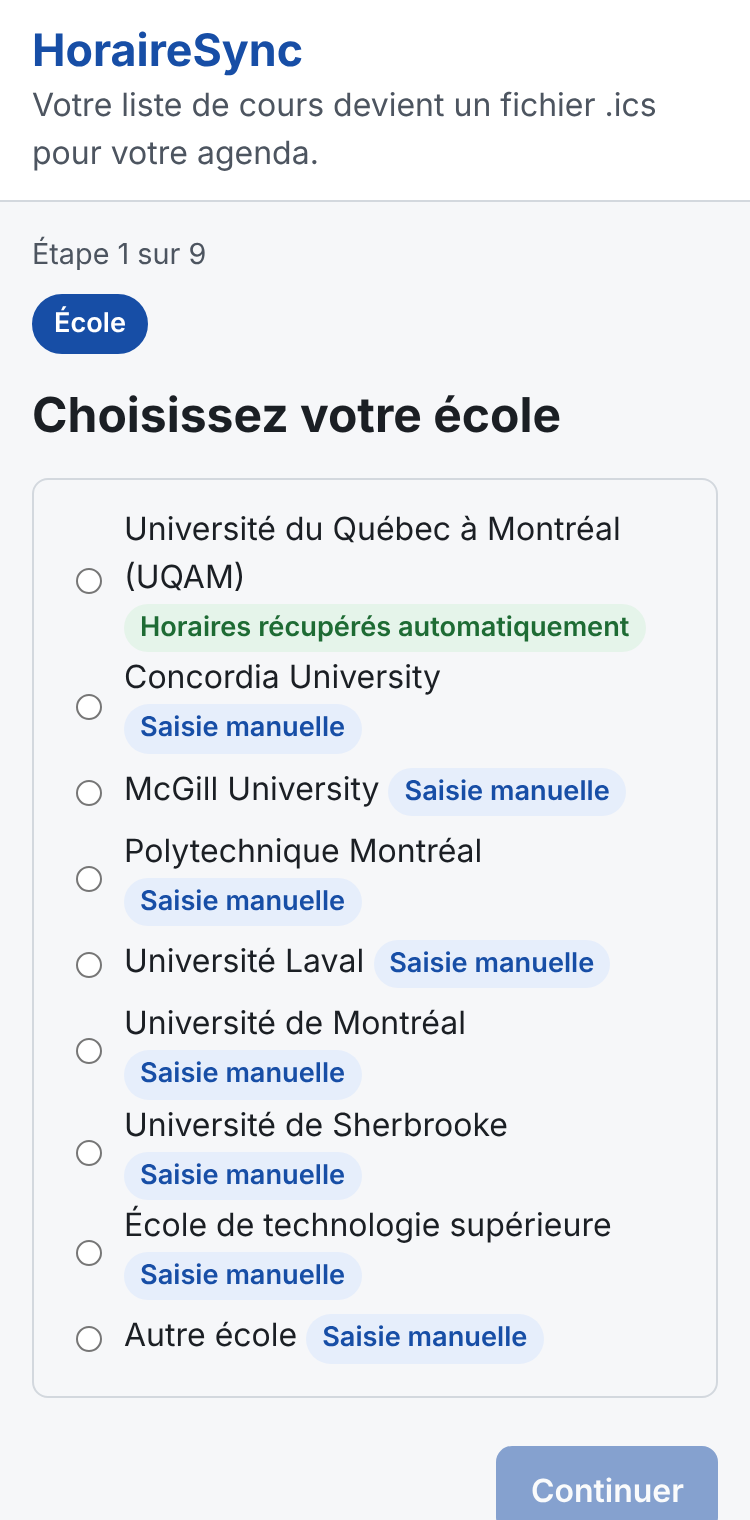
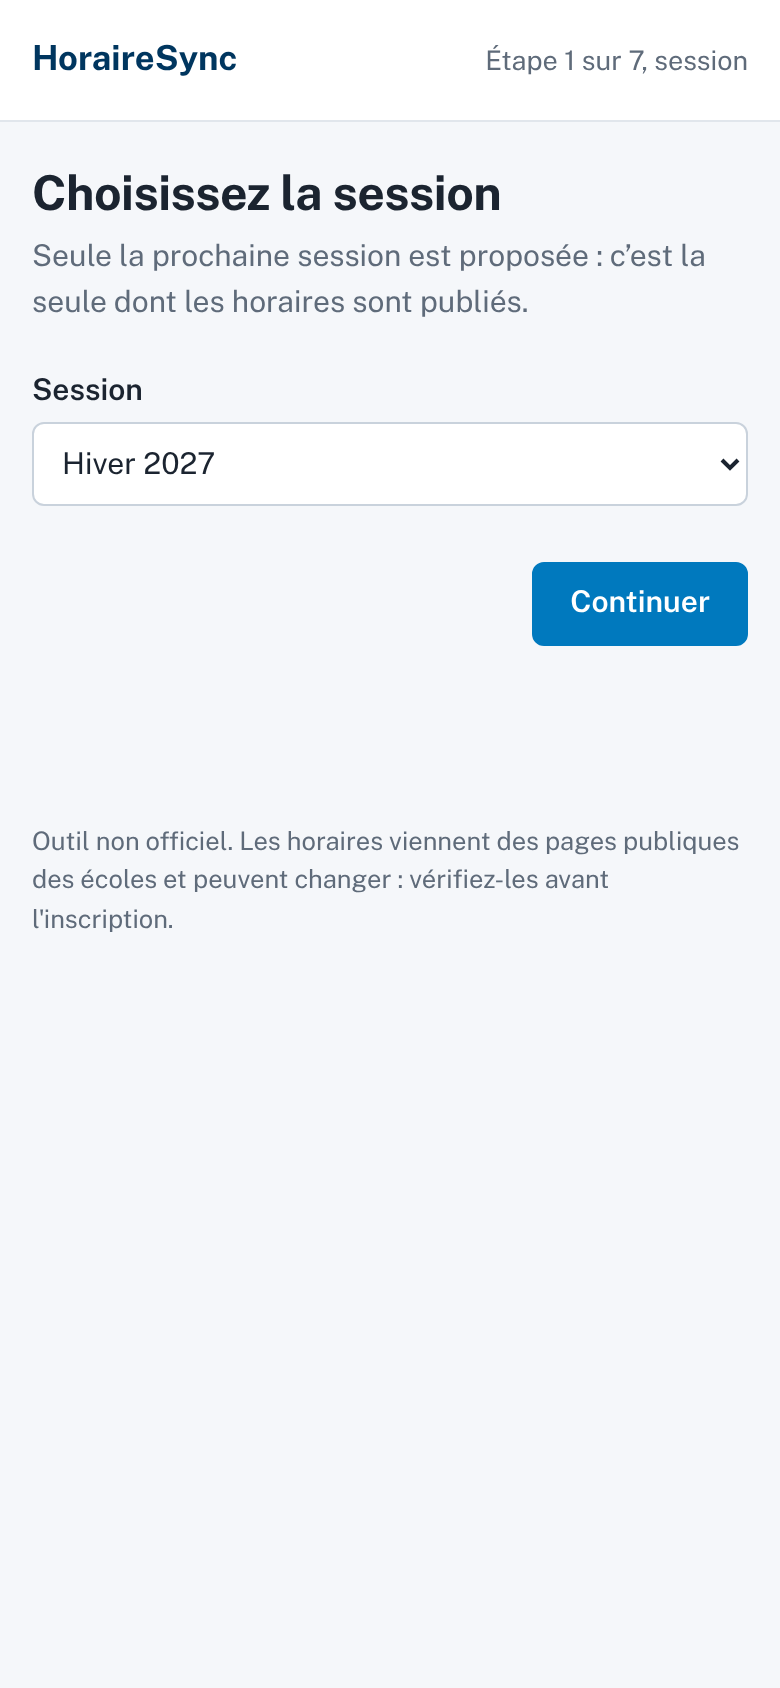
docs: update screenshots and demo for the new interface

diff --git a/frontend/README.md b/frontend/README.md
@@ -25,6 +25,13 @@ En production, `VITE_API_URL` donne l'adresse du backend (ex. `https://api.exemp
 | `src/components` | Composants réutilisables (champ adapté au type de valeur, carte de groupe, vue semaine…) |
 | `src/steps` | Un composant par étape |
 
+## Interface
+
+- Une seule couleur d'accent, le bleu de l'UQAM (`#0079be`), avec un bleu marine et des gris neutres. Chaque cours a sa propre nuance de bleu dans la vue semaine.
+- Police Public Sans, hébergée avec l'application (`@fontsource/public-sans`) : aucune requête vers un service tiers.
+- Les jetons de couleur sont dans `src/index.css`, avec une variante pour le mode sombre ; les contrastes respectent WCAG AA.
+- Étape Groupes : les cours et leurs groupes à gauche, la semaine en construction à droite. Pointer un groupe (souris ou clavier) l'affiche en pointillé dans la semaine, avant de le choisir.
+
 ## Choix
 
 - Pas de routeur ni de Redux : le parcours est linéaire et l'état tient dans un reducer testable sans React.
